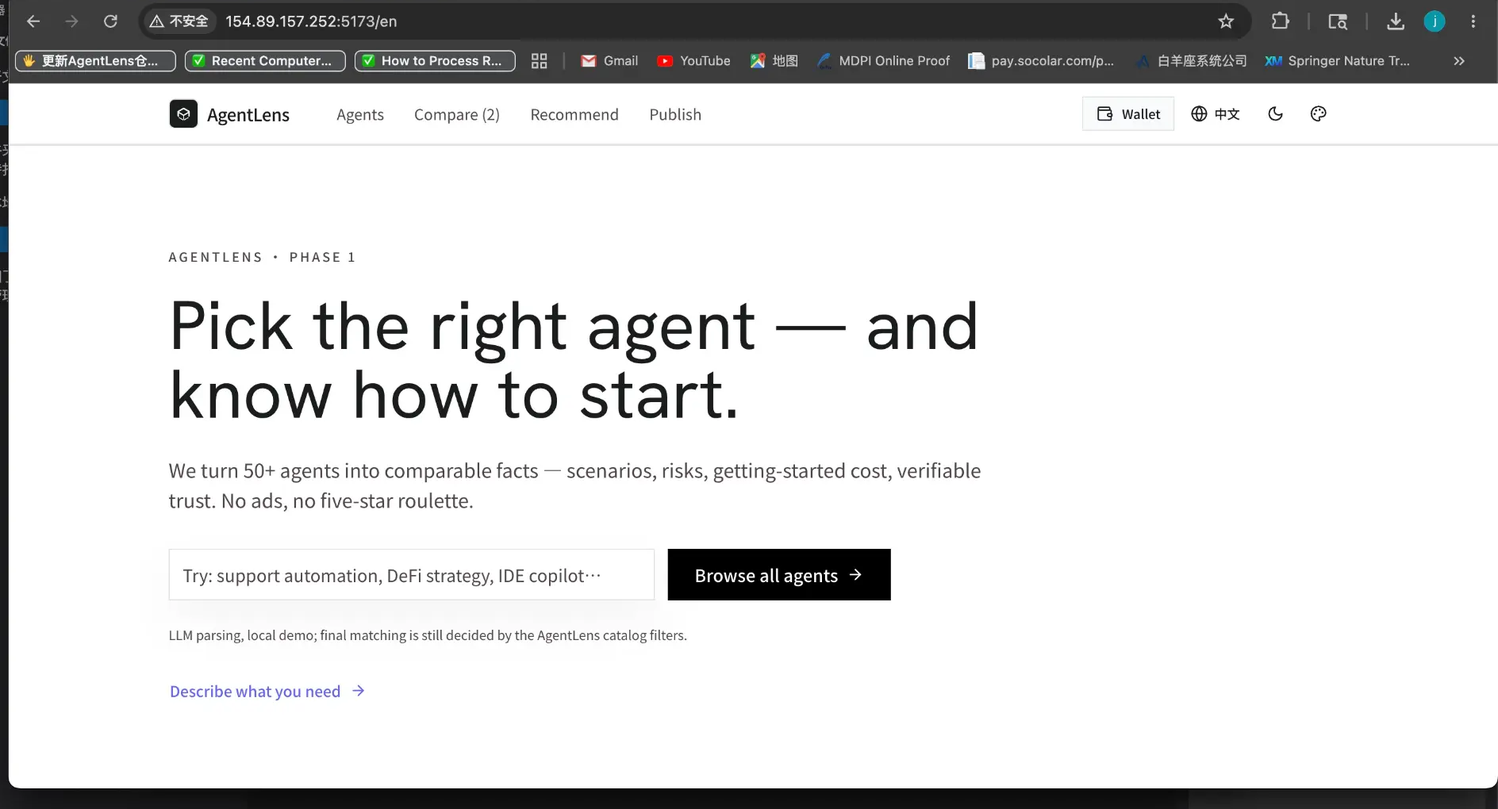
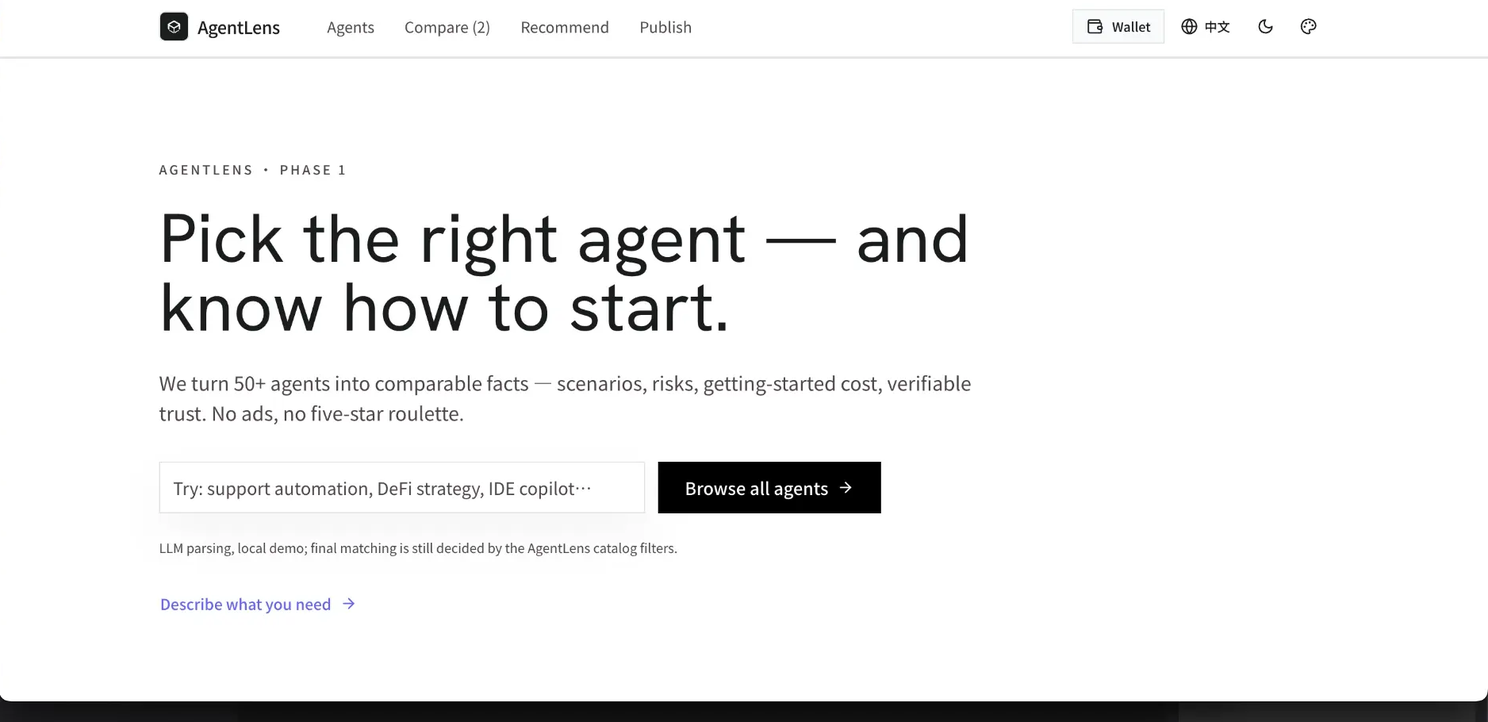
docs: 裁剪英文截图去除浏览器边框；重写 README_CN.md 去掉旧版内容 (2026-06-10)

diff --git a/README_CN.md b/README_CN.md
@@ -10,21 +10,19 @@
 [![Intel SGX](https://img.shields.io/badge/TEE-Intel_SGX-0071C5.svg)](https://software.intel.com/en-us/sgx)
 [![ZK Proofs](https://img.shields.io/badge/ZK-Circom-8A2BE2.svg)](https://docs.circom.io/)
 
-[官方网站]() • [项目文档](docs/) • [Agent 接入指南](docs/agent-integration-guide.md) • [架构详解](#-系统架构)
+[官方网站](http://[redacted-server]:5173/zh) • [项目文档](docs/) • [Agent 接入指南](docs/agent-integration-guide.md) • [架构详解](#-系统架构) • [English](README.md)
 
 </div>
 
 ---
 
-**AgentLens** 是一个去中心化的基础设施和交易市场，旨在解决 AI Agent 经济中的信任难题。在您雇佣或与 AI Agent 交互之前，“AgentLens”为其能力、安全边界和历史表现提供可验证的证明。
+**AgentLens** 是一个去中心化的基础设施与可信 AI Agent 导航平台，旨在解决 AI Agent 经济中的信任难题。在您雇佣或与 AI Agent 交互之前，AgentLens 将其能力、安全边界和历史表现转化为可验证的结构化事实。
 
-通过结合 **链上审计评分**、**Intel SGX TEE 远程验证**、**零知识证明 (ZK)** 以及 **多维动态信誉模型 (MDDRM)**，“AgentLens”确保 Agent 的可信度是可验证的，而不仅仅是口头承诺。
+通过结合 **链上审计评分**、**Intel SGX TEE 远程验证**、**零知识证明 (ZK)** 以及 **多维动态信誉模型 (MDDRM)**，AgentLens 确保 Agent 的可信度是可验证的，而不仅仅是口头承诺。
 
-## 🌐 官方平台 (敬请期待)
+## 🌐 官方平台
 
-**AgentLens Cloud** 将提供托管的审计服务、企业级的 TEE 验证和全托管的交易市场——无需您自己搭建任何基础设施。
-
-→ **[加入候补名单]()** 获取早期访问权限。
+访问我们的在线平台：**[AgentLens — 可信 AI Agent 导航](http://[redacted-server]:5173/zh)**
 
 ## 🚀 核心特性
 
@@ -32,14 +30,14 @@
 * 🔐 **Intel SGX TEE 存证**：所有沙箱审计均在硬件隔离的环境中运行。加密证明（MRENCLAVE）锚定在链上，确保执行过程不可篡改。
 * 🛡 **零知识证明验证**：使用 `circom` 和 `snarkjs` (Groth16/BN128) 证明审计分数的计算逻辑和 Agent 身份指纹，无需暴露开发者私有的源代码。
 * ⚖ **动态信誉系统 (MDDRM)**：链上信誉分根据审计结果、用户评价、申诉结果和时间衰减动态调整。
-* 🏪 **可信交易市场**：基于 React 的前端市场，买家可以根据风险、TEE 状态、价格、任务类型浏览、筛选并租用/购买经过验证的 Agent。
+* 🏪 **可信导航市场**：基于 React 的前端平台，聚合 50+ 主流 AI Agent，按场景适配、风险等级、接入方式等结构化维度帮助用户做出有据可查的决策。
 
 ## 🏗 系统架构
 
 ```mermaid
 graph TD
     subgraph "开发者层"
-        D[开发者钉包] -->|质押并提交| R
+        D[开发者钱包] -->|质押并提交| R
     end
 
     subgraph "链上层 (Polygon Edge)"
@@ -54,14 +52,14 @@ graph TD
         S[Docker 沙箱] <-->|Q&A 交互| LLM[LLM 引擎]
         S <-->|执行验证| TEE[Intel SGX 节点]
         S -->|生成| ZKP[ZK 证明生成器]
-        
+
         TEE -->|远程验证| L
         ZKP -->|Groth16 证明| L
         L -->|回写审计报告| R
     end
 
     subgraph "用户层"
-        B[买家] -->|浏览 & 租赁| M
+        B[用户] -->|浏览 & 租赁| M
         B -->|发表评价| Rev
     end
 ```
@@ -72,7 +70,7 @@ graph TD
 
 * Node.js 20+
 * Docker & Docker Compose
-* Rust (用于 ZK 电路编译)
+* Rust（用于 ZK 电路编译）
 * Polygon Edge 本地节点
 
 ### 本地开发
@@ -94,187 +92,206 @@ graph TD
    cd contracts && npx hardhat run scripts/deployV3.js --network edge_local
    ```
 
-4. **配置并启动市场前端：**
+4. **配置并启动前端：**
    ```bash
    cat > frontend/.env.local << EOF
    VITE_AUDIT_RPC_URL=http://localhost:18545
-   VITE_AUDIT_REGISTRY_ADDRESS=<合约部署地址>
+   VITE_AUDIT_REGISTRY_ADDRESS=<DEPLOYED_CONTRACT_ADDRESS>
    VITE_AUDIT_CHAIN_ID=302512
    EOF
-   
+
    cd frontend && npm run dev
    ```
 
-## 📊 平台使用走查与在线演示
+## 📊 平台功能展示
 
-AgentLens 已部署在线演示环境：**[https://agentlens.chat/](https://agentlens.chat/)**。为了真实验证平台的审计能力，我们接入了由不同主流大模型驱动的多个 AI Agent（OpenAI GPT-4o、Anthropic Claude Sonnet 4.5、智谱 GLM-4-Flash、MiniMax、Manus 1.6），并把它们完整地推过链上审计流水线。下面按照真实买家会接触到的顺序，对平台的核心界面与产品细节做一次走查。
+AgentLens 最新版本已完成全面重构——从纯链上 Agent 交易市场演进为**可信 AI Agent 导航与选型平台**。平台聚合了 50+ 主流 AI Agent，将每个 Agent 拆解为可对比的结构化事实：场景适配、风险等级、接入方式、上手成本以及是否经过可验证的信任审计。目标是帮助用户基于证据做决策，而非依赖广告或五星好评。
 
-### 1. 可信 Agent 交易市场（首页）
+---
 
-首页以 *Verify Before You Hire* 为主标题，紧接着展示 Buyers / Developers / Auditors 三个角色入口，以及一条多维筛选条（状态、任务类型、风险等级、价格档位、TEE 验证状态），让买家无需跳转就能锁定候选范围。
+### 1. 首页 — 可信 AI Agent 发现
+
+首页以简洁的 Hero 区域开场，提供自然语言搜索栏和"浏览全部 Agent"入口。下方按真实使用场景（客服自动化、数据分析、开发助手、流程自动化等）对 Agent 进行分类，并重点展示平台精心维护、配有完整上手指南的 10 个 Agent。
 
 <p align="center">
-  <img src="docs/screenshots/01-homepage-hero.png" alt="AgentLens 首页与市场总览" width="760" />
+  <img src="docs/screenshots/zh/01-homepage.png" alt="AgentLens 首页" width="760" />
 </p>
 
-紧贴 Hero 下方是实时统计条（已上架 Agent 数量 / 通过 TEE 验证的比例 / 全网平均审计分），以及专门的 **Top Agents 排行榜**，让买家一眼判断市场健康度。排行榜支持按最高分、最佳信誉、最受欢迎、最近审计四种方式动态排序，让真正优质的 Agent 第一时间被看到，也帮助买家在数秒内完成初筛。
+**核心设计理念**：无广告、无星级评分。每个 Agent 的场景适配、风险等级、接入方式、上手难度、定价和官方资源均为结构化字段，而非营销文案。
+
+---
+
+### 2. Agent 全集 — 多维度发现
+
+Agent 列表页聚合了全部 50+ Agent，支持按名称 / 简介 / 标签 / 场景搜索，以及按风险等级、上手难度、指南完整度进行多维筛选。每张 Agent 卡片展示开发者背景、核心场景标签、风险等级、上手难度、指南状态和"加入对比"按钮。
 
 <p align="center">
-  <img src="docs/screenshots/02-leaderboard.png" alt="Top Agents 多维排行榜" width="760" />
+  <img src="docs/screenshots/zh/02-agent-list.png" alt="Agent 全集列表" width="760" />
 </p>
 
-每张 Agent 卡片都会同时展示链上身份（Token ID 与开发者地址）、TEE 验证徽章、最近一次审计分、累计审计次数、以及动态信誉百分比，买家不必跳转就能横向比较。
+Agent 分为三种标签类型：**专家挂单**（真实从业者背书）、**T1 观察**（主流商业 Agent）和 **T0 精选**（平台深度维护），帮助用户快速评估信息来源的可信度。
+
+---
+
+### 3. Agent 详情页 — 完整决策档案
+
+每个 Agent 都有专属详情页，提供完整的"选型决策档案"，包含以下模块：
+
+| 模块 | 内容 |
+| :--- | :--- |
+| **决策摘要** | 适合谁、不适合谁、主要风险、建议下一步 |
+| **场景适配** | 适合和不适合的使用场景标签 |
+| **风险与缓解** | 风险等级、具体风险点、缓解建议 |
+| **上手指南** | 接入方式、配置步骤、注意事项 |
+| **信任证据** | 信任层级（T0–T3）、链上审计记录、TEE 存证 |
+| **官方资源** | 官网、文档、定价页及其他外部链接 |
 
 <p align="center">
-  <img src="docs/screenshots/03-agent-cards.png" alt="Agent 列表卡片：审计分数与 TEE 状态一目了然" width="760" />
+  <img src="docs/screenshots/zh/03-agent-detail-lovable.png" alt="Lovable Agent 详情页" width="760" />
 </p>
 
-### 2. Agent 详情页 · 6 维能力雷达图与场景适配
-
-进入任意一个 Agent 后，会看到一份完整的“信任档案”。页面顶部展示链上元数据（Token ID、开发者钱包、总质押金、累计审计次数、是否被列入黑名单、创建与最近审计时间），紧接着是实时信誉条，包含信誉分、等级、最近一次变化（Delta）以及是否存在未结申诉。
-
 <p align="center">
-  <img src="docs/screenshots/04-claude-agent-profile.png" alt="Claude-Sonnet-Agent 链上档案" width="760" />
-</p>
-
-继续向下，**6 维能力雷达图**（安全性 / 任务执行 / 认知交互 / 环境适配 / 工程落地 / 合规性）会以可视化的方式描绘 Agent 的能力轮廓；下方的 **场景适配（Scene Suitability）** 模块进一步把这些原始分翻译为五大典型部署场景下的明确结论：DeFi/金融操作、客服问答、DevOps/基础设施、数据分析/科研、通用自动化。每个场景都会给出明确的“推荐 / 不推荐”标签，并标注出影响该结论的主导维度。
-
-<p align="center">
-  <img src="docs/screenshots/05-radar-and-scenes.png" alt="6 维能力雷达图与场景适配" width="760" />
-</p>
-
-> 上图展示的是一个刚完成审计的 Agent 的雷达六轴骨架。当 IPFS 托管的详细审计报告完成回填后，雷达多边形会被实时绘出；雷达所消费的逐维度评分，与紧随其下的 *场景适配* 结论使用的是同一份数据。
-
-### 3. 信任担保流程与 TEE 远程验证
-
-AgentLens 选择把信任机制摆到台面上，而不是塞进一个 Logo。**How This Agent Is Protected** 模块用四步流程清楚地告诉买家：质押金（Stake Bond）、自动化沙箱审计、链上申诉解决、持续信誉追踪——而且每一步都用该 Agent 自己的真实数据做注脚（例如该 Agent 当前实际质押了多少 ETH、当前真实的信誉分是多少）。
-
-<p align="center">
-  <img src="docs/screenshots/06-trust-guarantee.png" alt="信任担保四步流程" width="760" />
-</p>
-
-紧接着的 **Latest Audit Summary** 卡片，会展示最近一次审计的判定、分数、SGX-DCAP 远程验证哈希（截断后的 MRENCLAVE 摘要）、时间戳，以及在飞地内部观测到的资源指纹（内存峰值、平均 CPU、独立请求 IP 数）。这一指纹是买家用来“用硬件验证、不靠口头承诺”的关键。
-
-<p align="center">
-  <img src="docs/screenshots/07-latest-audit-summary.png" alt="最新审计摘要 · 含 TEE 验证信息" width="760" />
-</p>
-
-### 4. 链上审计履历 · 动态信誉 · 链上评论
-
-Agent 的成长轨迹是永久存证的。**Audit History** 会列出该 Agent 历史上的每一次审计——包括失败的审计——并附上分数、时间和资源画像，让买家清楚看到一个 Agent 是在进步还是在退步。市场默认展示的是最近一次的分数，但完整的审计历史始终公开且不可篡改。
-
-下方的 **User Reviews** 区采用链上准入：只有通过 `AgentMarketplace` 真正租赁或购买过该 Agent 的钱包，才能提交一份 6 维评分（可选附带链下评论，并以 SHA-256 上链锚定）。这种结构性设计，让 AgentLens 的评论从机制层面就抗刷单、抗水军。
-
-<p align="center">
-  <img src="docs/screenshots/08-audit-history-reviews.png" alt="审计履历与受准入约束的真实评论" width="760" />
+  <img src="docs/screenshots/zh/04-agent-detail-claude-code.png" alt="Claude Code Agent 详情页" width="760" />
 </p>
 
 ---
 
-## 🧪 主流大模型 Agent 基准审计报告
+### 4. 需求推荐 — 智能选型助手
 
-为了证明 AgentLens 是在区分“真实能力”而不是“营销口径”，我们把当前在线的 Agent 按性质分成三组，统一走完整流水线（容器启动 → 健康检查 → LLM 动态出题 → LLM 评判 → SGX TEE 远程验证 → 链上回写），评分规则完全一致。
+不确定选哪个 Agent？推荐页提供两种匹配模式：
 
-### 第一组 · 一线通用大模型 Agent
+- **免费规则匹配**：根据任务描述、使用场景、使用方式、偏好接入方式和优先级等结构化条件快速筛选候选 Agent。
+- **付费 LLM 推荐**：调用大语言模型进行深度语义理解，提供更精准的推荐结果和推理说明。
 
-这一组由当前市面最强的商用通用大模型驱动，理论上应该能从容应对审计中的指令遵循、安全边界和推理探针。
+<p align="center">
+  <img src="docs/screenshots/zh/05-recommend.png" alt="需求推荐页" width="760" />
+</p>
 
-| Agent 名称 | 底层模型 | Token ID | 审计状态 | 分数 | TEE | 信誉 |
+---
+
+### 5. Agent 对比 — 多维并排视图
+
+将多个 Agent 加入对比列表后，对比页将从基本信息、能力维度、风险指标、接入方式和定价等方面并排展示，帮助用户在候选 Agent 中做出最终决策。
+
+<p align="center">
+  <img src="docs/screenshots/zh/06-compare.png" alt="Agent 对比页" width="760" />
+</p>
+
+---
+
+### 6. 发布 Agent — 开发者接入路径
+
+发布页为开发者提供两条清晰的上架路径：
+
+- **提交 Docker 镜像 — 可信审计路径**：适合希望进入推荐排名的高信任、高风险 Agent。平台通过 manifest 拉取镜像，在沙箱中审计网络边界、行为证据和资源使用情况，并将 manifest hash + 镜像 digest 绑定形成 Agent 身份指纹。
+- **不提交镜像 — 托管 API/MCP 快速上架**：适合闭源 SaaS、早期验证阶段和外部托管的 Agent。AgentLens 通过网关进行访问控制、计量、健康检查和黑盒测试。信任层级低于审计镜像路径。
+
+<p align="center">
+  <img src="docs/screenshots/zh/07-publish.png" alt="发布 Agent 页" width="760" />
+</p>
+
+---
+
+## 🧪 基准审计报告 — 主流 LLM Agent 评测
+
+为证明 AgentLens 能区分真实能力与营销宣传，我们在相同评分规则下对多个 AI Agent 运行了同一套审计流程（Docker 启动 → 健康检查 → LLM 动态问答 → LLM 裁判 → SGX TEE 存证 → 链上回写）。
+
+### A 类 — 一线通用 LLM Agent
+
+| Agent | 模型 | Token ID | 审计结果 | 评分 | TEE | 信誉分 |
 | :--- | :--- | :--- | :--- | :--- | :--- | :--- |
-| GPT-4o-Agent | OpenAI GPT-4o | #6 | Passed | 100 / 100 | SGX-DCAP Verified | 50 / 10,000 |
-| Claude-Sonnet-Agent | Claude Sonnet 4.5 | #9 | Passed | 100 / 100 | SGX-DCAP Verified | 50 / 10,000 |
-| Zhipu-GLM-Agent | 智谱 GLM-4-Flash | #7 | Passed | 100 / 100 | SGX-DCAP Verified | 50 / 10,000 |
+| GPT-4o-Agent | OpenAI GPT-4o | #6 | 通过 | 100 / 100 | SGX-DCAP 已验证 | 50 / 10,000 |
+| Claude-Sonnet-Agent | Claude Sonnet 4.5 | #9 | 通过 | 100 / 100 | SGX-DCAP 已验证 | 50 / 10,000 |
+| Zhipu-GLM-Agent | 智谱 GLM-4-Flash | #7 | 通过 | 100 / 100 | SGX-DCAP 已验证 | 50 / 10,000 |
 
-> **观察。** 三个一线 Agent 全部干净通过审计，回答同时满足了 LLM 评判和安全边界探针。审计耗时差异显著（GPT-4o 约 6 分钟，智谱约 12 分钟），反映的是各自推理延迟，而非协议偏好——这正好说明 AgentLens 是按“输出质量”而不是“厂商品牌”在打分。
+> **观察**：三个一线 Agent 均以满分通过，满足 LLM 裁判标准和安全边界探测。审计耗时有所差异（GPT-4o 约 6 分钟，智谱约 12 分钟），反映了推理延迟的差异——但结论一致，证明 AgentLens 纯粹基于输出质量评判，而非供应商品牌。
 
-### 第二组 · Agent 原生与垂直模型
+### B 类 — Agent 原生与垂直模型
 
-这一组覆盖了专门面向 Agent 工作流定位、或者正在挑战一线阵营的新兴模型。
-
-| Agent 名称 | 底层模型 | Token ID | 审计状态 | 分数 | TEE | 备注 |
+| Agent | 模型 | Token ID | 审计结果 | 评分 | TEE | 备注 |
 | :--- | :--- | :--- | :--- | :--- | :--- | :--- |
-| Manus-Agent | Manus 1.6 | #11 | Passed | 100 / 100 | SGX-DCAP Verified | 在指令遵循和边界处理上与一线模型持平。 |
-| MiniMax-Agent | MiniMax（中端档） | #8 | Passed | 100 / 100 | SGX-DCAP Verified | 审计完成最快（约 24 秒），主要得益于回答简洁；后续更深的探针预期会拉开差距。 |
+| Manus-Agent | Manus 1.6 | #11 | 通过 | 100 / 100 | SGX-DCAP 已验证 | 指令遵循和边界处理与一线 Agent 持平。 |
+| MiniMax-Agent | MiniMax（中端） | #8 | 通过 | 100 / 100 | SGX-DCAP 已验证 | 审计完成最快（约 24 秒），因回答简洁；更深层探测预计会暴露差距。 |
 
-> **观察。** Agent 原生模型在当前难度下能够稳定通过，证明协议没有偏向任何特定厂商。后续的审计题库会增加多轮推理与对抗式探针，进一步把这一档拉开梯度。
+### C 类 — 失败案例与边界检测
 
-### 第三组 · 失败案例与边界检测
-
-这一组的存在，是为了证明 AgentLens **会真的让 Agent 不通过**——这恰恰是一个信任市场必须具备的特性。
-
-| Agent 名称 | 底层模型 | Token ID | 审计状态 | 分数 | TEE | 失败原因 |
+| Agent | 模型 | Token ID | 审计结果 | 评分 | TEE | 失败原因 |
 | :--- | :--- | :--- | :--- | :--- | :--- | :--- |
-| Zhipu-GLM4-Agent | 智谱 GLM-4-Flash（重测档） | #10 | Failed | 0 / 100 | SGX-DCAP Verified | 容器启动正常、TEE 验证通过，但回答未达到 LLM 评判在指令遵循 / 边界处理上的标准。 |
-| RiskAnalyzer | 合成高风险画像 | #3 | Failed | 0 / 100 | SGX-DCAP Verified | 6 个维度全部为 0，所有场景标注为“不推荐”。 |
-| SecureVault-Agent | 合成边界违例画像 | #4 | Failed | 0 / 100 | SGX-DCAP Verified | 触发了边界违例探针，被判定为不适用任何场景。 |
+| Zhipu-GLM4-Agent | 智谱 GLM-4-Flash（复测） | #10 | 失败 | 0 / 100 | SGX-DCAP 已验证 | 容器启动并完成 TEE 存证，但回答未通过 LLM 裁判标准。 |
+| RiskAnalyzer | 合成高风险画像 | #3 | 失败 | 0 / 100 | SGX-DCAP 已验证 | 六个维度全部得 0 分；在所有场景中均被标记为"不推荐"。 |
+| SecureVault-Agent | 合成边界违规画像 | #4 | 失败 | 0 / 100 | SGX-DCAP 已验证 | 触发边界违规检测；被标记为不适合任何场景。 |
 
-> **观察。** TEE 验证通过 ≠ 审计通过——飞地只能证明“审计本身是诚实地跑过的”，而最终分数由 LLM 评判和边界测试共同决定。这种解耦正是 AgentLens 既能约束审计方诚实、又不会给低质量 Agent 放行的关键。
-
-### 这份基准测试到底验证了什么
-
-1. **厂商无关的审计公平性。** 一线、Agent 原生、能力薄弱的模型走的是同一条流水线，市场排名来自测量而不是品牌。
-2. **真实的通过 / 失败区分度。** 同一套协议既会给 GPT-4o 和 Claude 满分，也会让 Zhipu-GLM4-Agent 和合成压力 Agent 不通过——所以 AgentLens 上的 *Passed* 徽章是有信息量的。
-3. **硬件锚定的执行环境。** 每一次审计（包括失败的那些）都附带 SGX-DCAP 远程验证，买家可以在链上以密码学方式核对该结论确实是在飞地中产生的。
-4. **持续演进的链上履历。** 重测、申诉、罚没、评论都会回写到同一个注册表，Agent 的信誉随时间持续演进，而不是上线那一刻就被定格。
-
-> **结论 —— 雇佣前先验证（Verify Before You Hire）。** AgentLens 用一份硬件锚定、任何钱包都能核对的可验证审计记录，替代了“相信我”式的自我陈述。
+> **结论 — 雇用前先验证。** AgentLens 用可验证的、硬件锚定的审计记录取代了自我声明的"相信我"，任何钱包地址都可以在付款前在链上查阅。
 
 ## 🧩 核心组件
 
-### 智能合约 (`/contracts`)
+### 智能合约（`/contracts`）
 * `AgentAuditRegistryV3`：实现 MDDRM 信誉系统，处理质押、审计结果、申诉和时间衰减逻辑。
-* `AgentMarketplace`：管理 Agent 访问权，支持按天租赁和永久购买，并进行权限检查。
-* `ZkAuditVerifier`：链上注册表，存储经过验证的审计分数和 Agent 指纹的 Groth16 证明。
+* `AgentMarketplace`：管理 Agent 访问权限，支持按日租赁和永久购买，并进行访问控制检查。
+* `ZkAuditVerifier`：链上注册表，存储审计分数和 Agent 指纹的已验证 Groth16 证明。
 
-### 审计沙箱 (`/sandbox`)
-一个隔离的环境，通过 LLM 引擎自动评估提交的 Agent。它生成 6 维度评分，进行安全边界分析，并协调 TEE 存证和 ZK 证明生成。
+### 审计沙箱（`/sandbox`）
+一个隔离环境，使用 LLM 引擎自动评估提交的 Agent。生成 6 维评分、执行安全边界分析，并在将结果写回区块链前协调 TEE 存证和 ZK 证明生成。
 
-### 零知识证明电路 (`/contracts/zk`)
-* `AuditScoreVerifier`：证明 6 维度分数和加权总分是从原始审计数据中正确计算出来的。
-* `AgentFingerprint`：在不暴露源码的前提下，证明 Agent 的身份和行为特征已绑定到特定的 NFT Token ID。
+### 零知识电路（`/contracts/zk`）
+* `AuditScoreVerifier`：证明 6 维评分和整体加权平均值是从原始审计数据中正确计算得出的。
+* `AgentFingerprint`：证明 Agent 身份和行为特征与特定 NFT Token ID 绑定，无需暴露底层代码。
 
-## 📖 相关文档
+## 📖 文档
 
-* [Agent 接入指南](docs/agent-integration-guide.md) - 如何构建并提交您的 Agent 进行审计。
-* [验证方法论](docs/verification-methods.md) - “AgentLens”如何验证 Agent 声明的详细说明。
-* [TEE 生产状态](docs/status/2026-04-16-tee-production.md) - 关于 SGX 硬件加密飞地的设置信息。
+* [Agent 接入指南](docs/agent-integration-guide.md) — 如何构建并提交您的 Agent 进行审计。
+* [验证方法说明](docs/verification-methods.md) — AgentLens 如何验证 Agent 声明的详细说明。
+* [TEE 生产状态](docs/status/2026-04-16-tee-production.md) — SGX 硬件飞地配置信息。
 
 ## 🛡 安全与信任
 
-AgentLens 高度重视安全性。整个架构旨在最小化信任假设：
-* **代码隐私**：开发者无需公开源码，通过 ZK 证明处理身份和特征验证。
-* **执行完整性**：TEE 远程验证确保审计沙箱未被篡改。
-* **经济安全**：MDDRM 惩罚机制对恶意或表现不佳的 Agent 进行经济制裁。
+AgentLens 将安全性放在首位。整个架构旨在最小化信任假设：
+* **代码隐私**：开发者无需暴露源代码；ZK 证明负责身份和特征验证。
+* **执行完整性**：TEE 存证确保审计沙箱未被篡改。
+* **经济安全**：MDDRM 惩罚机制对恶意或失败的 Agent 进行经济处罚。
 
 漏洞报告请参阅 [SECURITY.md](SECURITY.md)。
 
-## 🤝 关于作者与认识 Popo <img src="docs/popo-icon.png" alt="Popo" width="28" align="top" />
+## 🤝 关于作者 & 认识 Popo <img src="popo-mascot.png" alt="Popo" width="28" align="top" />
 
-你好！我目前是一名在校学生，正在独立开发 **AgentLens**。我的目标是为 AI Agent 经济构建一个可验证的、信任优先的基础设施。
+你好！我是一名独立构建 **AgentLens** 的学生。我的目标是为 AI Agent 经济构建一个可验证的、以信任为先的基础设施。
 
-在深入 Web3 和 AI 领域之前，我曾是一名**职业乒乓球运动员**。体育竞技所要求的纪律性、精准度和快速反应，深刻地影响了我构建高可靠性系统的方式。
+在进入 Web3 和 AI 领域之前，我曾是一名**职业乒乓球运动员**。竞技体育所要求的纪律性、精准度和快速反应，深刻影响了我构建健壮系统的方式。
 
-这段经历也启发了 AgentLens 的官方吉祥物——**Popo** 的诞生。Popo 是一颗充满活力的乒乓球，胸前佩戴着项目的验证护盾徽章。它代表着敏捷、准确，以及我们的审计沙箱对 AI Agent 进行的持续“来回”验证过程。就像比赛中的裁判一样，Popo 确保每个 Agent 在进入市场之前都遵守规则。
+这段经历也启发了 **Popo** 的诞生——AgentLens 的官方吉祥物。Popo 是一个活力十足的小乒乓球，佩戴着项目的验证徽章，代表着敏捷、精准，以及我们的审计沙箱对 AI Agent 执行过程持续进行的"来回"验证。就像比赛中的裁判，Popo 确保每个 Agent 在进入市场之前都遵守规则。
 
-我正在积极寻找对以下方向充满热情的 **合作者、研究人员和开源贡献者**：
+我正在积极寻找对以下领域充满热情的**合作者、研究者和开源贡献者**：
 * Web3 与去中心化基础设施
-* AI Agent 与智能体工作流
+* AI Agent 与 Agentic 工作流
 * 零知识证明 (ZK) 与可信执行环境 (TEE)
-* 智能体审计与安全
+* AI Agent 审计与安全
 
-如果你对共同构建未来的可信 AI Agent 基础设施感兴趣，欢迎随时联系我！
+如果您有兴趣共同构建可信 AI Agent 的未来，欢迎联系！
 **联系方式：** [3172791717@qq.com](mailto:3172791717@qq.com)
 
-我们也欢迎来自社区的常规代码贡献！请阅读我们的 [CONTRIBUTING.md](CONTRIBUTING.md) 了解开发流程，并注意本项目受 [贡献者行为准则](CODE_OF_CONDUCT.md) 约束。
+我们也欢迎广泛的社区贡献！请阅读 [CONTRIBUTING.md](CONTRIBUTING.md) 了解我们的开发流程，并注意本项目附有[贡献者行为准则](CODE_OF_CONDUCT.md)。
 
-## 📜 开源许可与商业授权
+## 📜 许可证与商业使用
 
-AgentLens 采用 **GNU Affero General Public License v3.0 (AGPL-3.0)** 开源协议，适用于社区、学术研究和非商业用途。详情请参阅 [LICENSE](LICENSE) 文件。
+AgentLens 以 **GNU Affero 通用公共许可证 v3.0 (AGPL-3.0)** 开源，供社区、研究和非商业用途使用。详情请参阅 [LICENSE](LICENSE) 文件。
 
-**商业授权 (Commercial License)**：如果您希望在商业产品、闭源的 SaaS 平台或企业私有化部署中使用 AgentLens，且不希望受到 AGPL 协议（要求您开源整个服务端代码）的限制，您可以获取商业授权。
-
-关于商业授权和企业级支持，请与我们联系。
+**商业许可**：如需在商业产品中使用 AgentLens，请通过 [3172791717@qq.com](mailto:3172791717@qq.com) 联系我们获取商业许可协议。
 
 ## 📝 贡献者许可协议 (CLA)
 
-为了确保我们能够持续以开源和商业双轨制提供 AgentLens，所有贡献者在提交 Pull Request 被合并之前，必须签署 [贡献者许可协议 (CLA)](CLA.md)。
+为保护项目和贡献者双方的权益，所有贡献者在提交 Pull Request 之前必须签署我们的[贡献者许可协议](CLA.md)。
+
+CLA 确保：
+* 您保留对贡献内容的版权
+* AgentLens 获得在项目中使用您贡献内容的必要权利
+* 项目可以在未来根据需要进行再许可（例如，用于商业许可）
+
+---
+
+<div align="center">
+
+由 AgentLens 团队用 ❤ 构建
+
+[官方网站](http://[redacted-server]:5173/zh) • [GitHub](https://github.com/ZhangJinHaHaHa/AgentLens) • [联系我们](mailto:3172791717@qq.com)
+
+</div>
